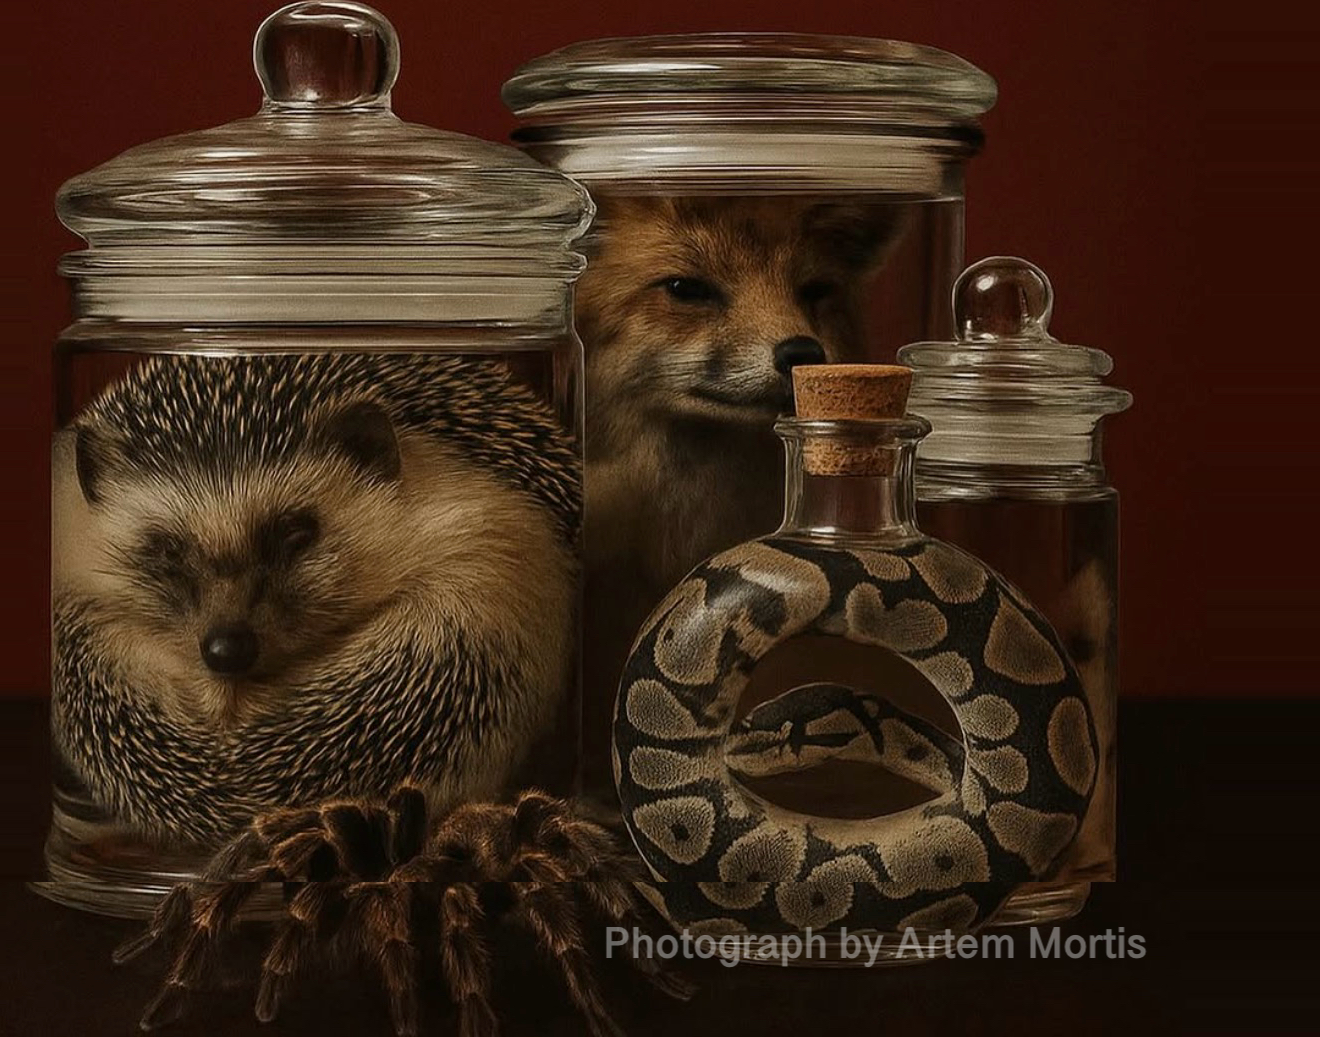
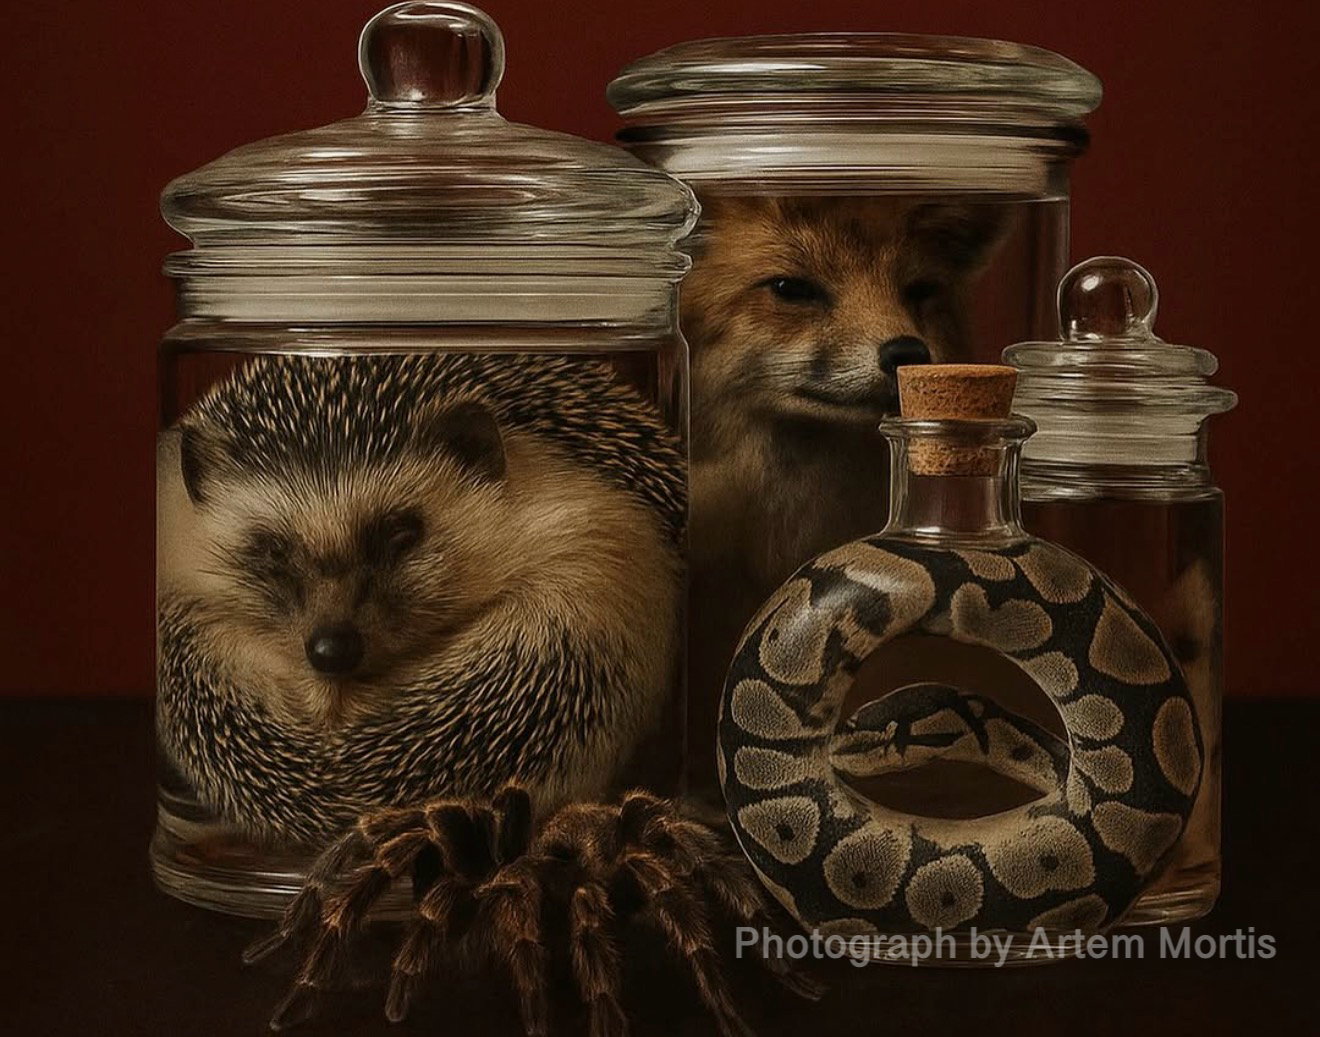
Adjust image positioning for specific category cards
Update the CategoryGrid component to adjust the background image position for the 'wet-specimens' category.

Replit-Commit-Author: Agent
Replit-Commit-Session-Id: 568b4d46-fc01-4b22-bb0f-1d02f36c1f03
Replit-Commit-Checkpoint-Type: full_checkpoint
Replit-Commit-Screenshot-Url: https://storage.googleapis.com/screenshot-production-us-central1/c816b041-a6c3-4cdd-9dbb-dc724b0c3961/568b4d46-fc01-4b22-bb0f-1d02f36c1f03/w59hHzV

diff --git a/client/src/components/category-grid.tsx b/client/src/components/category-grid.tsx
@@ -76,7 +76,10 @@ export default function CategoryGrid() {
       {categories.map((category: any) => (
         <Link key={category.id} to={`/browse?category=${category.slug}`}>
           <Card className="glass-effect rounded-2xl overflow-hidden hover-lift cursor-pointer group" data-testid={`category-${category.id}`}>
-            <div className="aspect-square bg-cover bg-center relative" style={{backgroundImage: `url(${category.image})`}}>
+            <div className="aspect-square bg-cover bg-center relative" style={{
+              backgroundImage: `url(${category.image})`,
+              backgroundPosition: category.slug === 'wet-specimens' ? '40% center' : 'center'
+            }}>
               <div className="absolute inset-0 bg-background/40 group-hover:bg-primary/40 transition-colors"></div>
               <div className="absolute inset-0 flex items-center justify-center">
                 <div className="text-center text-white">
